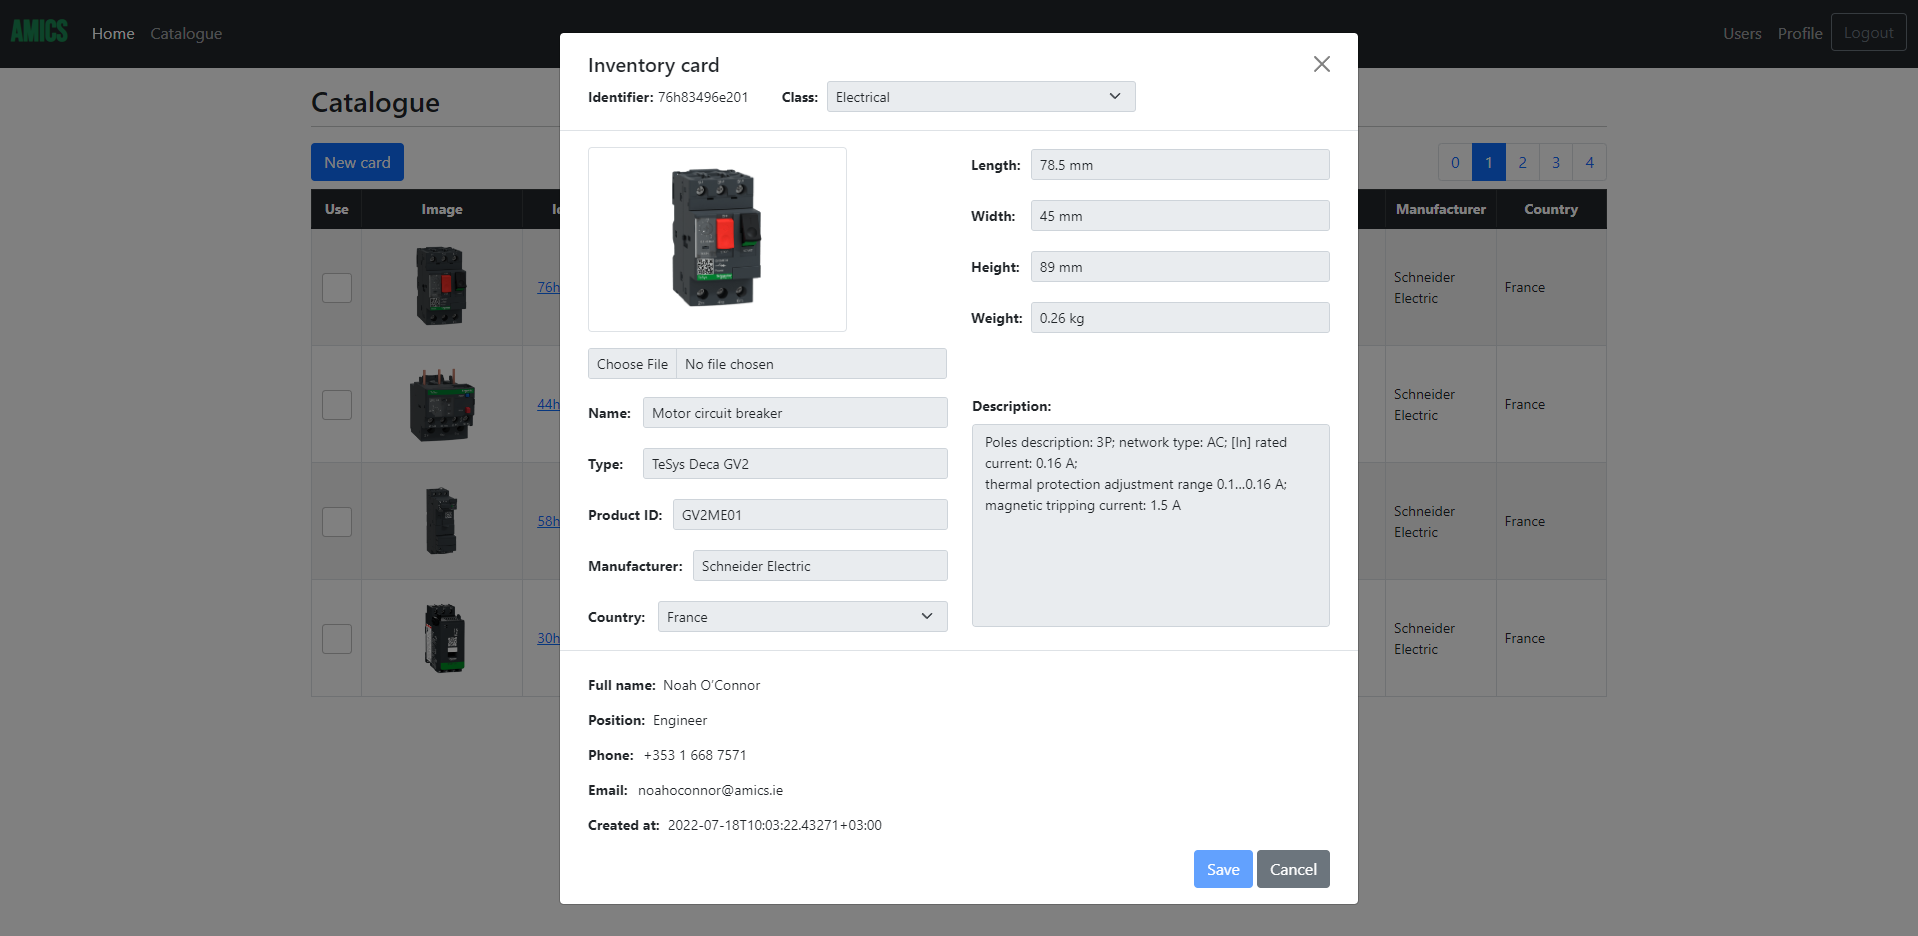
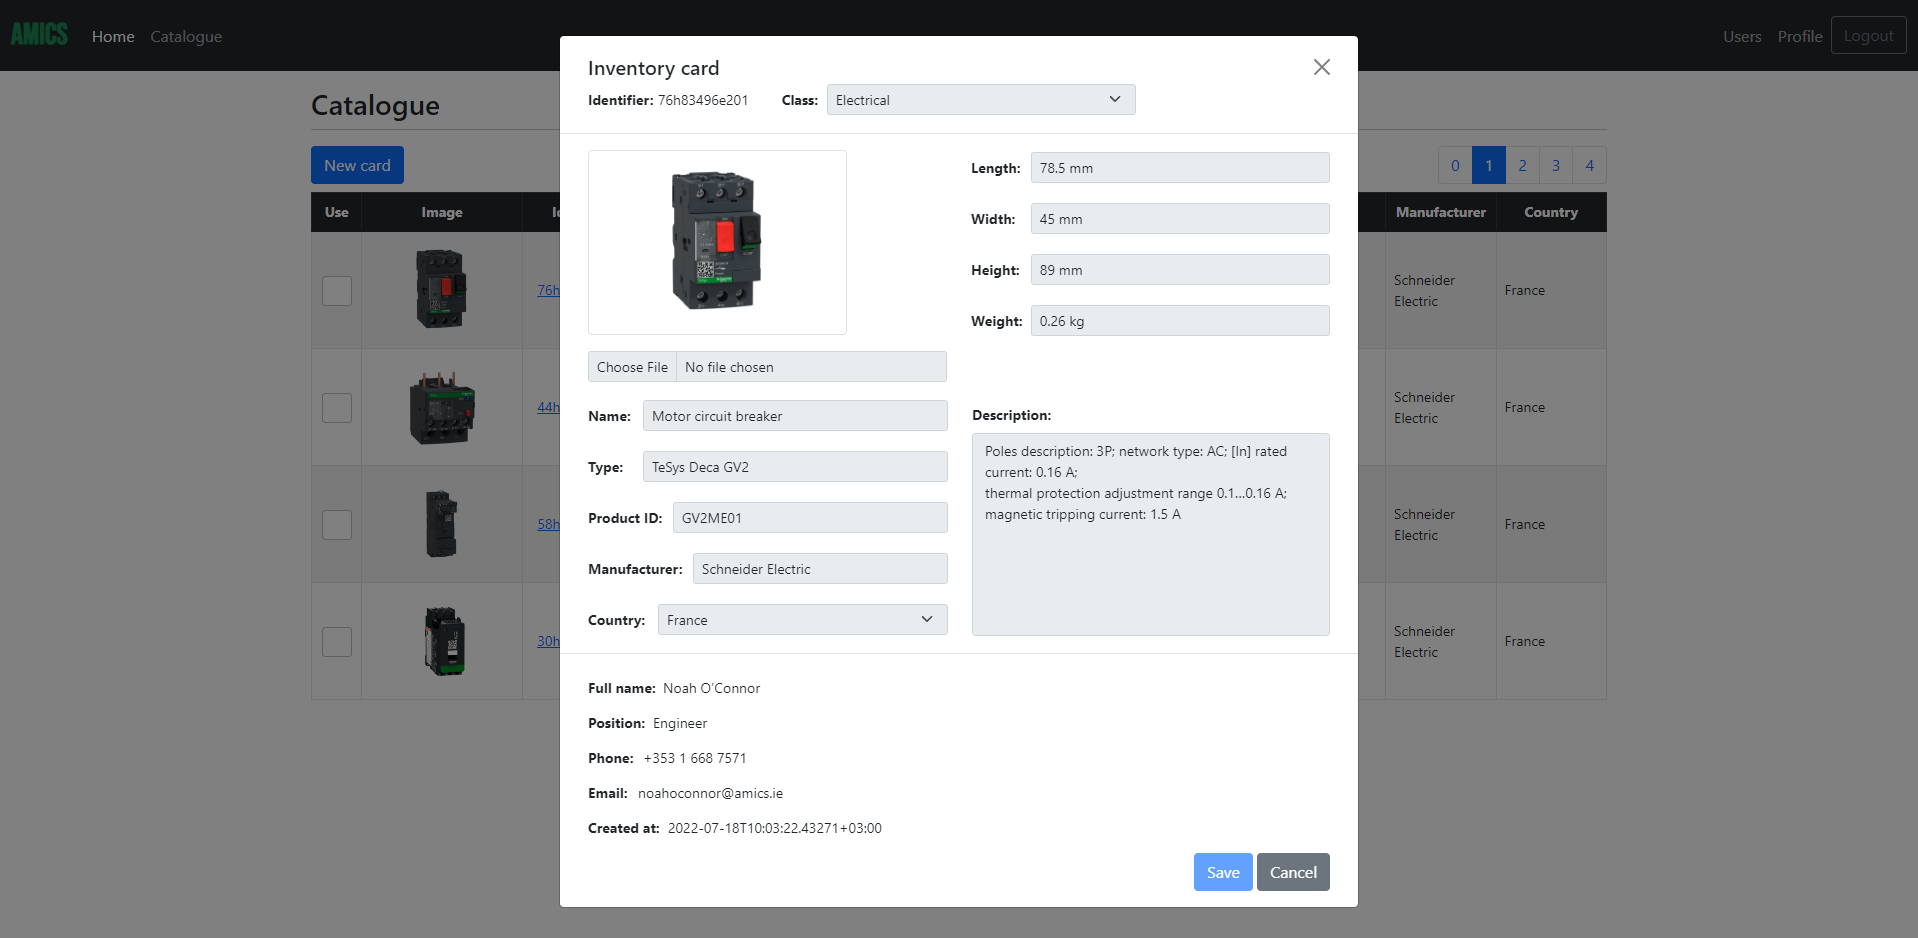
Align textarea

diff --git a/src/main/resources/templates/fragments/inventory-card.html b/src/main/resources/templates/fragments/inventory-card.html
@@ -148,8 +148,8 @@
 				      			</div>
 				      			
 				      			<!-- Description -->
-		      					<div class="col">
-									<div>
+		      					<div class="col mt-1">
+									<div style="margin-top:2px;">
 										<label for="productDescription" class="form-label fw-bold">Description:</label>
 										<textarea th:field="*{productDescription}" class="form-control" id="productDescription" rows="9"
 												  placeholder="Characteristics; links to manuals, instructions, catalogues, drawings, etc."
